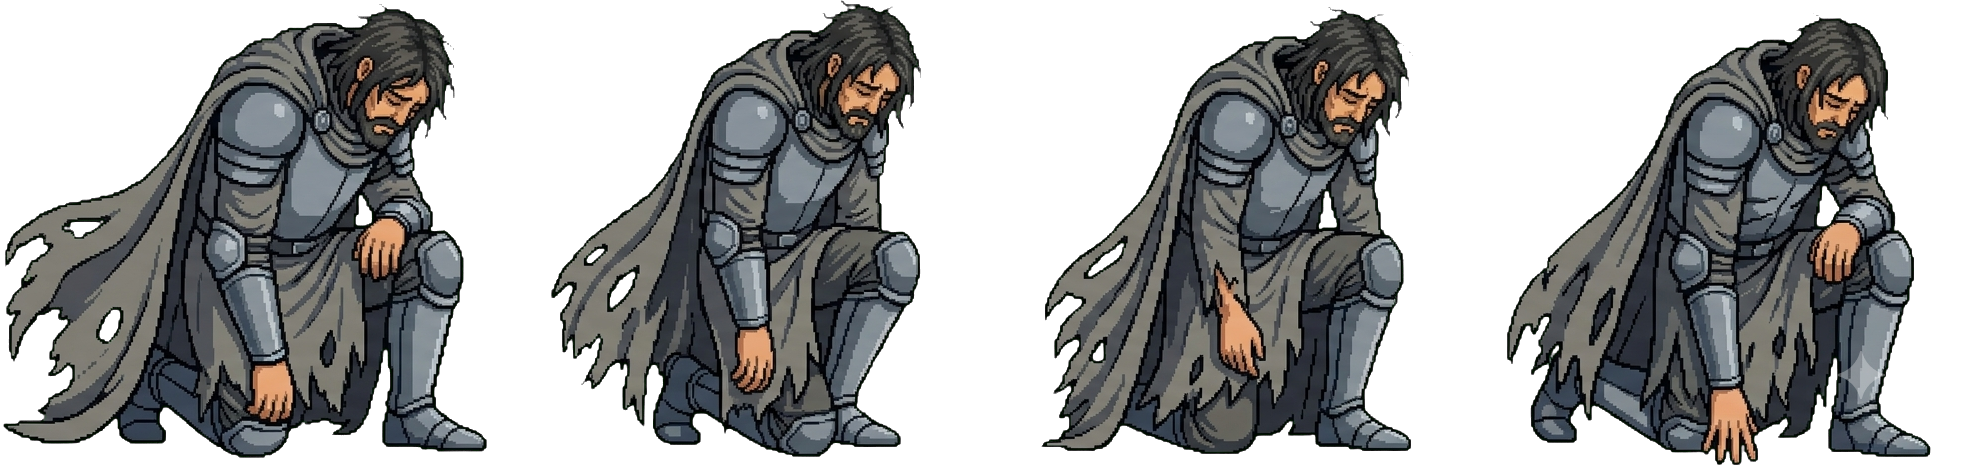
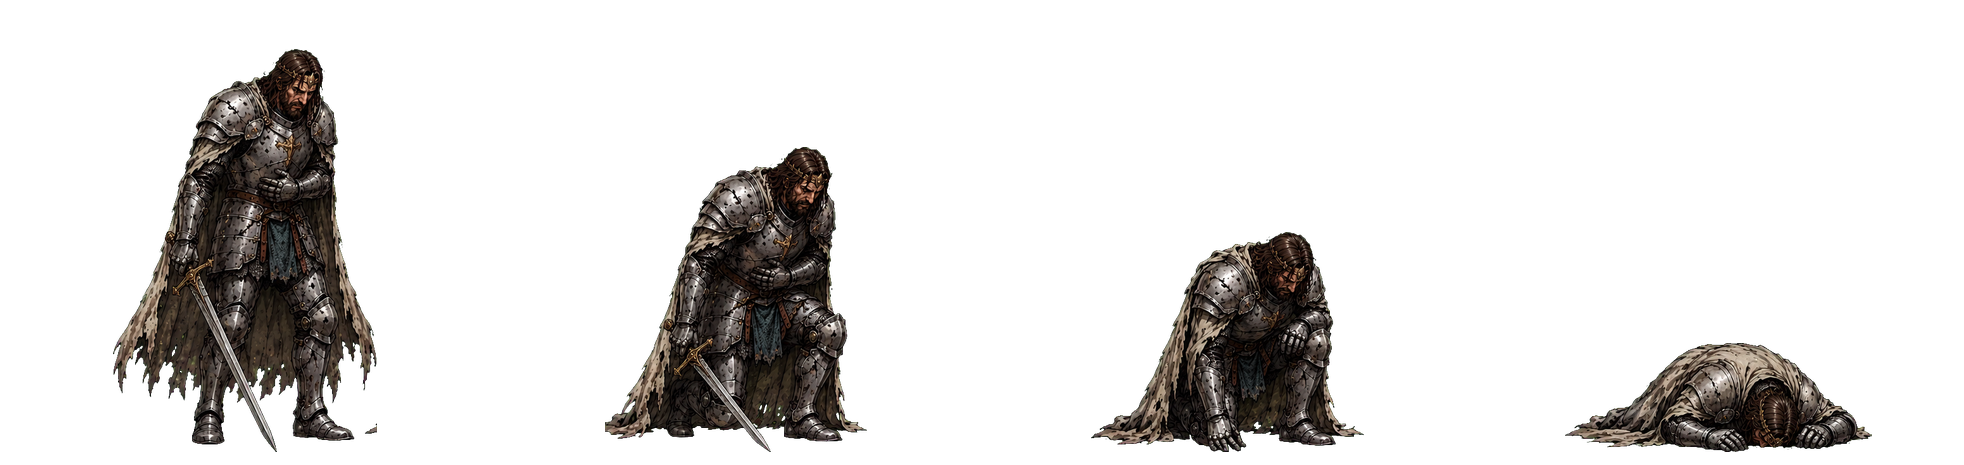
color-battle: 멸망·부활·무적오라 전용 아트 적용(누끼·정렬·합성)
- 초록 배경 스프라이트 2장을 크로마키 제거+디스필 → 4컷을 같은 스케일·바닥 정렬로
  491x465 그리드에 재구성: death.png(서다→쓰러짐), revive.png(무릎→만세)
- 검은 배경 오라를 휘도 알파로 변환 → aura.png(투명 금빛 링)
- drawRevive가 전용 revive.png 정방향 재생(없으면 멸망 역재생 폴백)
- 무적 오라를 AURA_IMG 가산합성(회전+맥동)으로 렌더(없으면 링 폴백)
- 멸망·부활 동일 캐릭터로 연속성 확보(P9). 로드/렌더 오류 없음 검증

Claude-Session: https://claude.ai/code/session_01M5CzWti85z8gvF8KUC48Ls

diff --git a/color-battle/index.html b/color-battle/index.html
@@ -270,6 +270,8 @@ const VS_IMG=new Image();let vsReady=false;VS_IMG.onload=()=>vsReady=VS_IMG.natu
 const IMPACT_IMG=new Image();let impactReady=false;IMPACT_IMG.onload=()=>impactReady=IMPACT_IMG.naturalWidth>0;IMPACT_IMG.src="assets/fx/impact.png";
 const DEATH_W=491,DEATH_H=465,DEATH_N=4;
 const DEATH_IMG=new Image();let deathReady=false;DEATH_IMG.onload=()=>deathReady=DEATH_IMG.naturalWidth>0;DEATH_IMG.src="assets/fx/death.png";
+const REVIVE_IMG=new Image();let reviveReady=false;REVIVE_IMG.onload=()=>reviveReady=REVIVE_IMG.naturalWidth>0;REVIVE_IMG.src="assets/fx/revive.png";
+const AURA_IMG=new Image();let auraReady=false;AURA_IMG.onload=()=>auraReady=AURA_IMG.naturalWidth>0;AURA_IMG.src="assets/fx/aura.png";
 const mapTokImg={},mapTokReady={};   // 지도 행군 토큰(솔리드 실루엣 병사, 세력별 사전 틴트)
 FACTIONS.forEach(f=>{mapTokReady[f.sig]=false;const im=new Image();im.onload=()=>{if(im.naturalWidth>0)mapTokReady[f.sig]=true;};im.src="assets/map/"+f.sig+".png";mapTokImg[f.sig]=im;});
 const tintCache=new Map();
@@ -692,8 +694,11 @@ function drawDeath(){const el=performance.now()-deathAnim.start,k=el/deathAnim.d
 function drawRevive(){const el=performance.now()-reviveAnim.start,k=Math.min(1,el/reviveAnim.dur),f=reviveAnim.f,col=FACTIONS[f].color;
   const a=k<0.15?k/0.15:k>0.85?(1-k)/0.15:1,cx=MAIN/2,cy=MAIN*0.5,flash=Math.max(0,1-Math.abs(k-0.42)/0.4);
   ctx.fillStyle="rgba(4,6,11,"+(0.8*a)+")";ctx.fillRect(0,0,MAIN,MAIN);
-  ctx.globalAlpha=a;                                                       // 쓰러진 군주가 일어섬 — 멸망 프레임 역재생
-  if(deathReady){const rev=Math.max(0,1-k*1.35);const fr=Math.min(DEATH_N-1,Math.max(0,Math.floor(rev*DEATH_N)));const di=tintCanvas(DEATH_IMG,fr*DEATH_W,DEATH_W,DEATH_H,col,"death"+fr);
+  ctx.globalAlpha=a;                                                       // 군주가 일어섬 — 전용 부활 스프라이트(무릎→기립→만세) 정방향
+  if(reviveReady||deathReady){const useRev=reviveReady;
+    const fr=useRev?Math.min(DEATH_N-1,Math.max(0,Math.floor(k*DEATH_N)))                       // 부활 시트: 정방향
+                   :Math.min(DEATH_N-1,Math.max(0,Math.floor(Math.max(0,1-k*1.35)*DEATH_N)));   // 폴백: 멸망 역재생
+    const di=tintCanvas(useRev?REVIVE_IMG:DEATH_IMG,fr*DEATH_W,DEATH_W,DEATH_H,col,(useRev?"rev":"death")+fr);
     const ds=MAIN*0.46/DEATH_H,dw=DEATH_W*ds,dh=DEATH_H*ds;ctx.imageSmoothingEnabled=false;ctx.drawImage(di,MAIN/2-dw/2,MAIN*0.66-dh,dw,dh);}
   ctx.globalAlpha=0.92*flash;const g=ctx.createRadialGradient(cx,cy,0,cx,cy,MAIN*0.46);g.addColorStop(0,"#ffffff");g.addColorStop(0.34,col);g.addColorStop(1,"rgba(0,0,0,0)");
   ctx.fillStyle=g;ctx.beginPath();ctx.arc(cx,cy,MAIN*0.46,0,7);ctx.fill();  // 섬광 코어
@@ -725,9 +730,13 @@ function draw(){
   for(const p of pv)if(p.res>=0){const x=p.cx*S,y=p.cy*S-MAIN*0.018,R=MAIN*0.02;ctx.beginPath();ctx.arc(x,y,R,0,7);ctx.fillStyle="rgba(6,9,15,.8)";ctx.fill();ctx.lineWidth=MAIN*0.005;ctx.strokeStyle=p.owner>=0?FACTIONS[p.owner].color:"#c9d2e0";ctx.stroke();ICON[RES_KEY[p.res]](ctx,x,y,MAIN*0.026,p.owner>=0?FACTIONS[p.owner].color:"#dbe3ef");}
   for(const p of pv)if(p.cap&&p.owner>=0)drawCapital(p.cx*S,p.cy*S,FACTIONS[p.owner].color,p.owner===leaderF);
   // 병력 숫자 — 소유는 굵고 밝게, 중립은 작고 흐리게 (P3 가독성)
-  // 무적(천운) 오라 — 불사 세력 지역에 금빛 맥동 링(P2: 왜 안 죽는지 보이게)
-  for(let f=0;f<K;f++)if(reviveTurns[f]>0){const pulse=0.5+0.5*Math.sin(now*0.011);ctx.save();ctx.globalAlpha=0.3+0.4*pulse;ctx.strokeStyle="#ffe27a";ctx.lineWidth=MAIN*0.004;ctx.shadowColor="#ffd23a";ctx.shadowBlur=MAIN*0.02*pulse;
-    for(const p of pv)if(p.owner===f){ctx.beginPath();ctx.arc(p.cx*S,p.cy*S,MAIN*(p.cap?0.03:0.02),0,7);ctx.stroke();}ctx.restore();}
+  // 무적(천운) 오라 — 불사 세력 지역에 금빛 맥동·회전 오라(P2: 왜 안 죽는지 보이게)
+  for(let f=0;f<K;f++)if(reviveTurns[f]>0){const pulse=0.5+0.5*Math.sin(now*0.006);
+    if(auraReady){const rot=now*0.0004;ctx.save();ctx.globalCompositeOperation="lighter";ctx.globalAlpha=0.5+0.32*pulse;
+      for(const p of pv)if(p.owner===f){const sz=MAIN*(p.cap?0.14:0.085)*(0.9+0.14*pulse),x=p.cx*S,y=p.cy*S;
+        ctx.save();ctx.translate(x,y);ctx.rotate(rot*(p.cap?1:-1));ctx.drawImage(AURA_IMG,-sz/2,-sz/2,sz,sz);ctx.restore();}ctx.restore();}
+    else{ctx.save();ctx.globalAlpha=0.3+0.4*pulse;ctx.strokeStyle="#ffe27a";ctx.lineWidth=MAIN*0.004;ctx.shadowColor="#ffd23a";ctx.shadowBlur=MAIN*0.02*pulse;
+      for(const p of pv)if(p.owner===f){ctx.beginPath();ctx.arc(p.cx*S,p.cy*S,MAIN*(p.cap?0.03:0.02),0,7);ctx.stroke();}ctx.restore();}}
   ctx.textAlign="center";ctx.textBaseline="middle";
   for(const p of pv){if(p.terrain===T_SEA&&p.owner<0)continue;const g=Math.round(p.garrison);if(g<=0&&p.owner<0)continue;
     if(p.owner>=0){ctx.font="800 "+(MAIN*0.019)+"px system-ui";const x=p.cx*S,y=p.cy*S+(p.cap?MAIN*0.036:p.res>=0?MAIN*0.016:0);